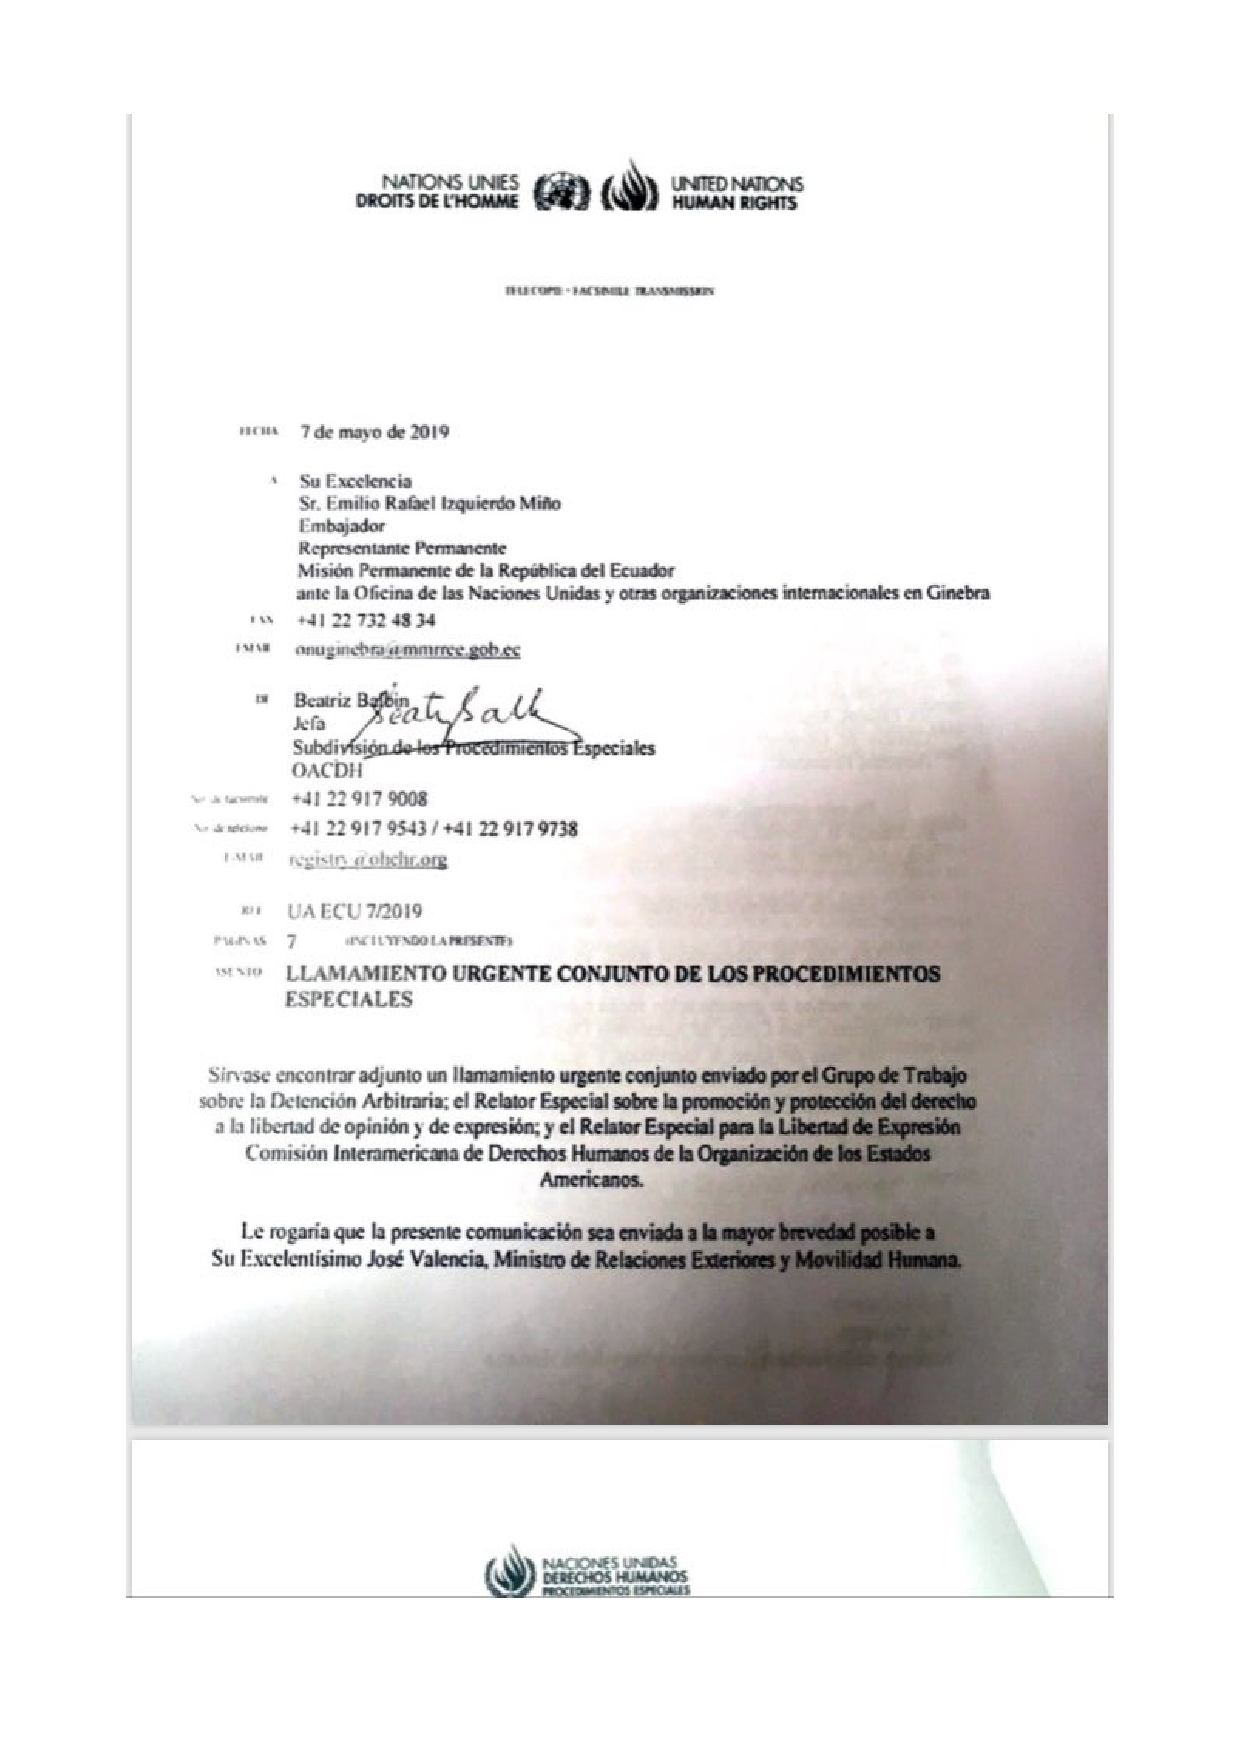
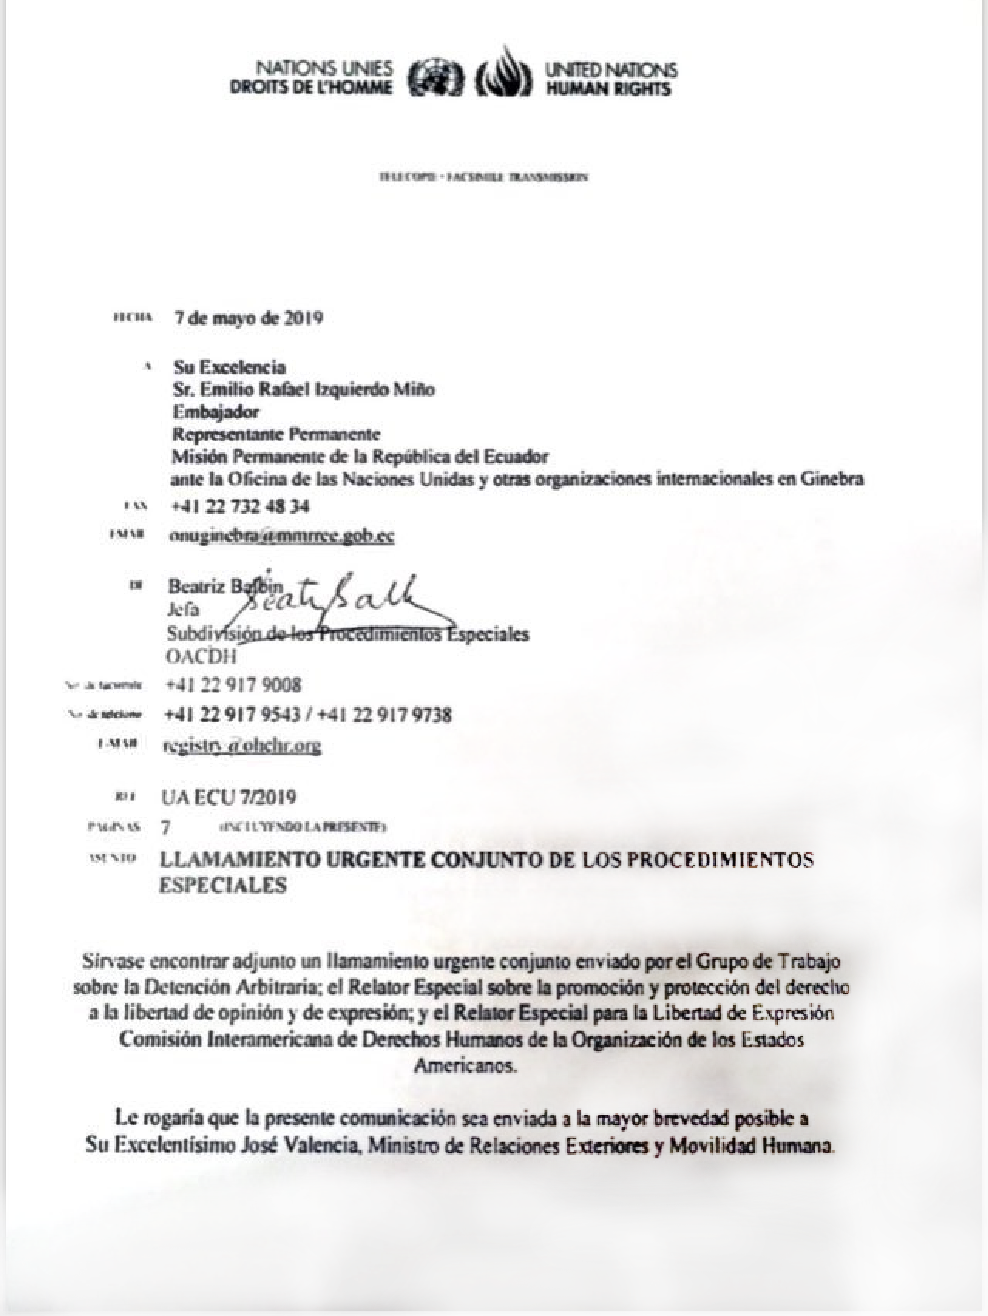
Make images clearer

diff --git a/en/LetterUN/index.html b/en/LetterUN/index.html
@@ -7,11 +7,11 @@
     <meta property="og:type" content="article" />
     <meta property="og:title" content="#FreeOlaBini" />
     <meta property="og:description" content="Letter UN" />
-    <meta property="og:image" content="https://freeolabini.org/img/OlaUN-sqr.png" />
+    <meta property="og:image" content="https://freeolabini.org/img/un.png" />
     <meta property="og:url" content="https://freeolabini.org/en/LetterUN/" />
     <meta name="twitter:card" content="summary_large_image" />
     <meta name="twitter:site" content="@freeolabini" />
-    <link rel="image_src" href="https://freeolabini.org/img/OlaUN-sqr.png">
+    <link rel="image_src" href="https://freeolabini.org/img/un.png">
     <link rel="license" hreflang="en" href="https://creativecommons.org/licenses/by-sa/4.0/deed.en">
     <link rel="alternate" hreflang="es" href="/es/">
     <link rel="alternate" hreflang="sv" href="/sv/">
@@ -68,8 +68,9 @@
   </a>
 
 </nav>
-<img src="/img/OlaUN-sqr.png" alt="Letter UN">
+<img src="/img/un.png" alt="Letter UN">
 <h1 class="lh-title f2-ns f3">Letter UN</h1>
+<p>This is the letter submitted from the UN to the Government of Ecuador:</p>
 <p><img src="/img/OlaUN-0.png" alt="alt text">
 <img src="/img/OlaUN-1.png" alt="alt text">
 <img src="/img/OlaUN-2.png" alt="alt text">

diff --git a/en/index.html b/en/index.html
@@ -90,7 +90,7 @@
 <a class="link dark-gray dim" href="/en/LetterUN/">
 <article class="pt3 flex-ns flex-row-reverse-ns">
     <div class="w-100 w-40-ns">
-      <img src="/img/OlaUN-sqr.png" class="nested-img mt3" alt="Ola Bini arrested in Ecuador"/>
+      <img src="/img/un.png" class="nested-img mt3" alt="Ola Bini arrested in Ecuador"/>
     </div>
     <div class="w-100 w-60-ns v-top">
           <h2 class="f2-ns f3 lh-title dark-gray mv0">
@@ -100,7 +100,7 @@
         Thu, 23 May 2019
       </small>
       <div class="pl3 pr3 pr4-ns">
-        
+        This is the letter submitted from the UN to the Government of Ecuador:
       </div>
     </div>
 </article>

diff --git a/_src/en/LetterUN.md b/_src/en/LetterUN.md
@@ -4,10 +4,11 @@ tags:
   - post
   - en
 date: 2019-05-23
-image: /img/OlaUN-sqr.png
+image: /img/un.png
 title: Letter UN
 ---
 
+This is the letter submitted from the UN to the Government of Ecuador:
 
 ![alt text](/img/OlaUN-0.png)
 ![alt text](/img/OlaUN-1.png)
